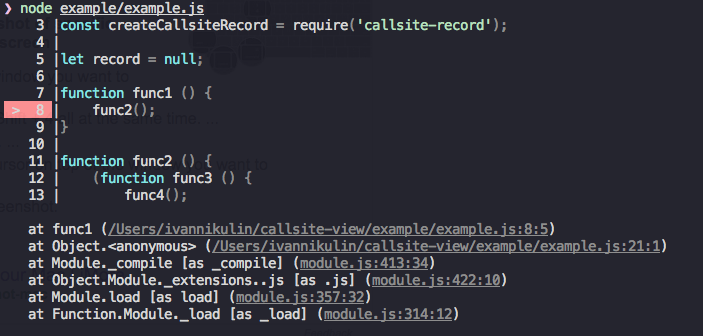
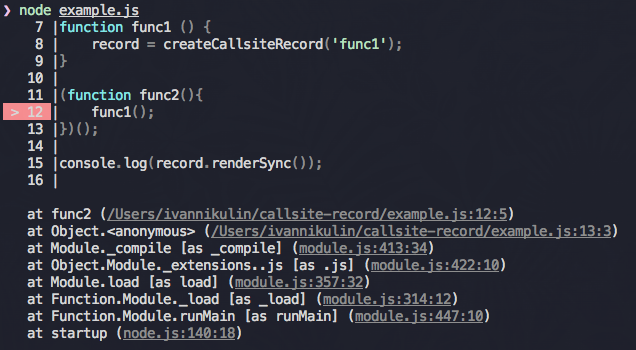
Add example to the README

Changed region(s): [[0.0, 0.0, 0.9858, 0.9821]]

diff --git a/README.md b/README.md
@@ -1,17 +1,33 @@
 # callsite-record
 [![Build Status](https://api.travis-ci.org/inikulin/callsite-record.svg)](https://travis-ci.org/inikulin/callsite-record)
 
-*Create fancy function call site records for the logging purposes.*
+*Create fancy call site records for any function up in the stack for the logging purposes.*
 
+```js
+'use strict';
+
+const createCallsiteRecord = require('callsite-record');
+
+let record = null;
+
+function func1 () {
+    record = createCallsiteRecord('func1');
+}
+
+(function func2(){
+    func1();
+})();
+
+console.log(record.renderSync());
+```
+
+ ⬇
+
+![example](https://raw.githubusercontent.com/inikulin/callsite-record/master/media/example.png)
 
 ## Install
 ```
 npm install callsite-record
-```
-
-## Usage
-```js
-// TODO
 ```
 
 ## Author
